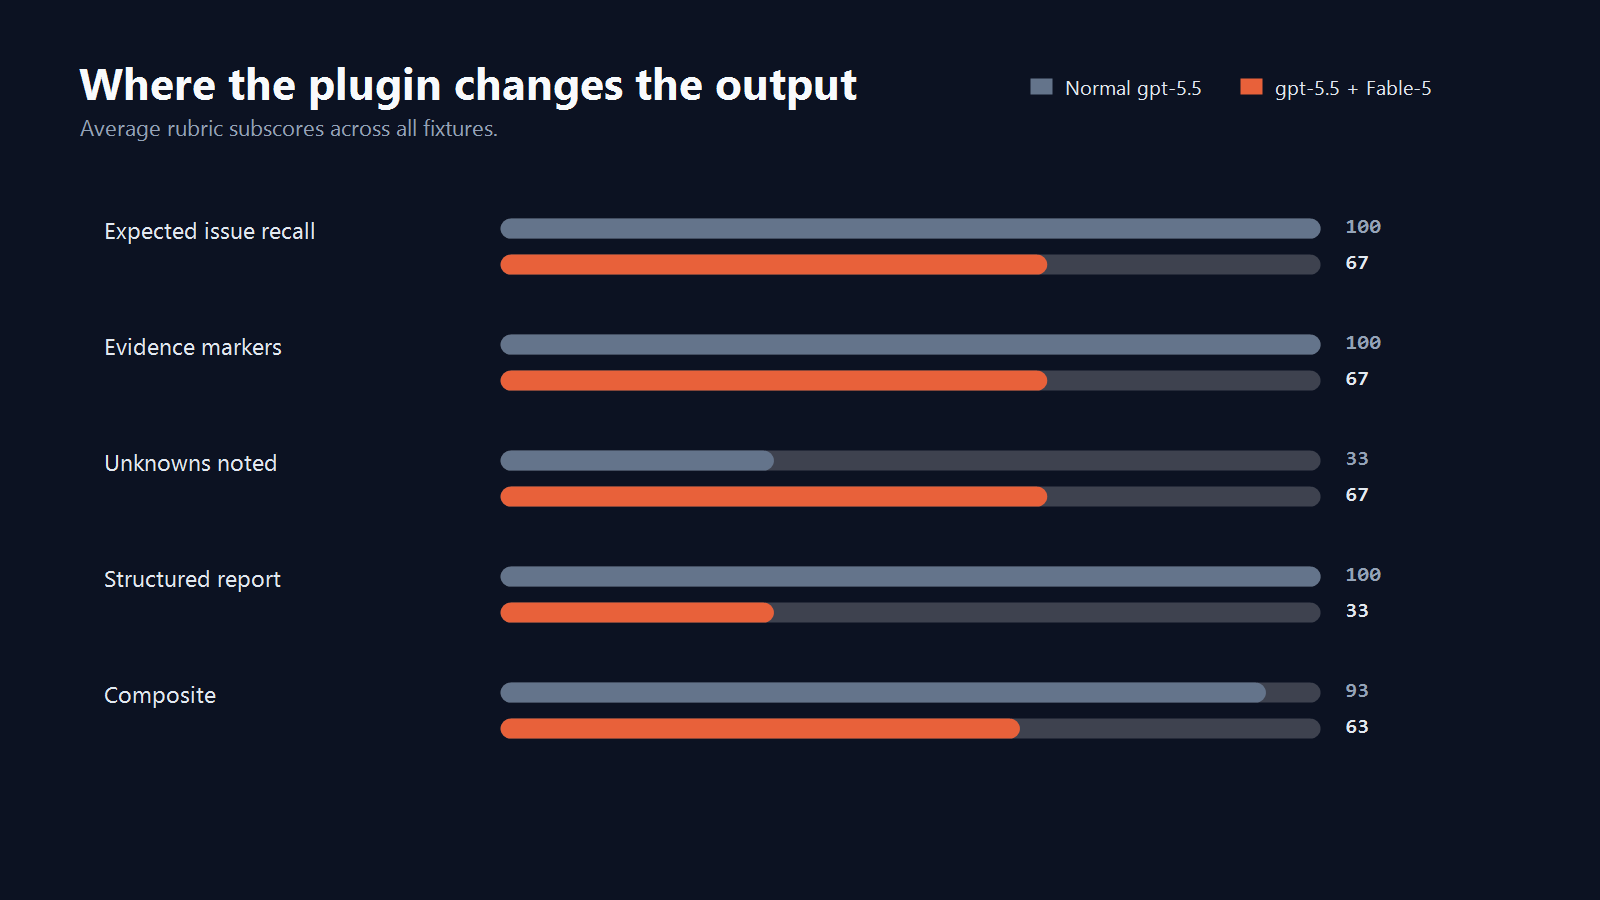
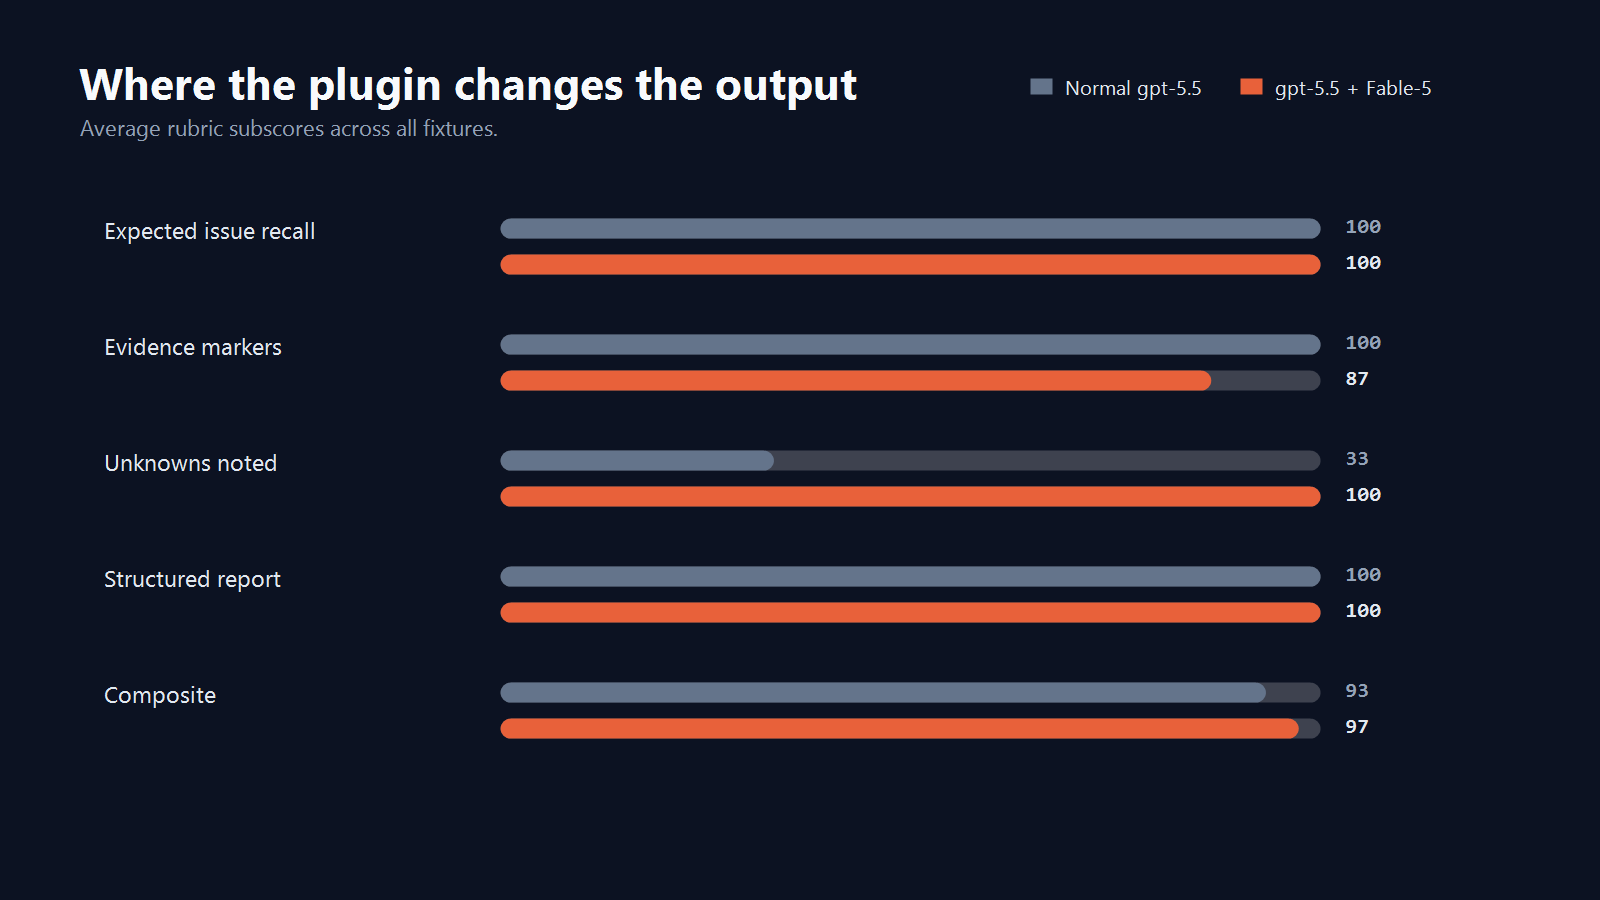
Refresh Fable benchmark results

diff --git a/benchmarks/results/20260706T030048Z/understand-toy-repo-plugin.md b/benchmarks/results/20260706T030048Z/understand-toy-repo-plugin.md
@@ -1,0 +1,40 @@
+**Direct Answer**
+
+Payment attempts are stored in a module-level in-memory array, `attempts`, and every `createPaymentAttempt(input)` call constructs a new object, pushes it, and returns it. There is no lookup by `idempotencyKey`, so retries are not actually reused. See [src/paymentAttempts.js](C:/projects/fable5-codex/tmp/benchmarks/20260706T030048Z/examples/toy-buggy-repo/src/paymentAttempts.js:1).
+
+The docs say payment attempts are idempotent and duplicate retry submissions reuse the original attempt: [README.md](C:/projects/fable5-codex/tmp/benchmarks/20260706T030048Z/examples/toy-buggy-repo/README.md:7), [docs/api.md](C:/projects/fable5-codex/tmp/benchmarks/20260706T030048Z/examples/toy-buggy-repo/docs/api.md:5). The implementation does not match that retry behavior. It does match the serialized `type: "FooPaymentAttempt"` claim: [src/paymentAttempts.js](C:/projects/fable5-codex/tmp/benchmarks/20260706T030048Z/examples/toy-buggy-repo/src/paymentAttempts.js:9), [README.md](C:/projects/fable5-codex/tmp/benchmarks/20260706T030048Z/examples/toy-buggy-repo/README.md:9).
+
+**Flow**
+
+1. `attempts` is initialized once at module scope: [src/paymentAttempts.js](C:/projects/fable5-codex/tmp/benchmarks/20260706T030048Z/examples/toy-buggy-repo/src/paymentAttempts.js:1).
+2. `createPaymentAttempt` builds a fresh record with sequential `id`, copied `invoiceId`, copied `idempotencyKey`, copied `amountCents`, and `type: "FooPaymentAttempt"`: [src/paymentAttempts.js](C:/projects/fable5-codex/tmp/benchmarks/20260706T030048Z/examples/toy-buggy-repo/src/paymentAttempts.js:3).
+3. It always appends with `attempts.push(attempt)` and returns the new object: [src/paymentAttempts.js](C:/projects/fable5-codex/tmp/benchmarks/20260706T030048Z/examples/toy-buggy-repo/src/paymentAttempts.js:12).
+4. `allPaymentAttempts()` returns a shallow copy of the array with `attempts.slice()`: [src/paymentAttempts.js](C:/projects/fable5-codex/tmp/benchmarks/20260706T030048Z/examples/toy-buggy-repo/src/paymentAttempts.js:16).
+
+I also ran a read-only duplicate retry probe with the same `idempotencyKey`; it produced `attempt_1` and `attempt_2`, `sameObject:false`, `count:2`.
+
+**Tests And Coverage**
+
+The only scoped test imports `createPaymentAttempt` and `allPaymentAttempts`: [paymentAttempts.test.js](C:/projects/fable5-codex/tmp/benchmarks/20260706T030048Z/examples/toy-buggy-repo/tests/paymentAttempts.test.js:1). Its exported helper creates one attempt and checks only that the total count is `1`: [paymentAttempts.test.js](C:/projects/fable5-codex/tmp/benchmarks/20260706T030048Z/examples/toy-buggy-repo/tests/paymentAttempts.test.js:3).
+
+Coverage notes:
+
+- Covered: single attempt insertion increments storage to one record.
+- Not covered: duplicate `idempotencyKey` retry reuse.
+- Not covered: returned object identity on retry.
+- Not covered: conflicting retry payloads with same `idempotencyKey`.
+- Not covered: `FooPaymentAttempt` type assertion, despite the docs claiming it.
+- Automation caveat: `node --test examples/toy-buggy-repo/tests/paymentAttempts.test.js` reported one passing file, but the file does not declare a `test(...)`; it exports `testCreatesAttempt`. Manually importing and calling that function passes.
+
+**Rejected Candidates**
+
+- “Retries are idempotent”: rejected. No `find`, `filter`, map, or key lookup exists; the code always pushes.
+- “Docs are entirely stale”: rejected. The `FooPaymentAttempt` serialization claim matches implementation.
+- “Attempts are persisted externally”: rejected within scope. Storage is only the module-local `attempts` array.
+- “Tests validate retry behavior”: rejected. The test performs one create and one length check only.
+
+**Unknowns**
+
+- Whether idempotency should be scoped only to `idempotencyKey` or also validate matching `invoiceId` and `amountCents`; docs only mention same `idempotencyKey`.
+- Whether this toy repo is meant to use Node’s test runner directly or a custom harness that calls exported test functions.
+- Whether module-level in-memory storage is intentional for the toy fixture or a stand-in for a real datastore.

diff --git a/benchmarks/results/20260706T030048Z/audit-payment-attempts-plugin.md b/benchmarks/results/20260706T030048Z/audit-payment-attempts-plugin.md
@@ -1,0 +1,37 @@
+**Findings**
+
+1. **High: retries are not idempotent and duplicate attempts are accepted**
+   Evidence: [paymentAttempts.js](C:/projects/fable5-codex/tmp/benchmarks/20260706T030048Z/evals/audit-fixture/src/paymentAttempts.js:3) creates a fresh attempt every call, derives `id` from `attempts.length + 1`, copies `paymentKey`, then always pushes at line 12. This contradicts the README claims in [README.md](C:/projects/fable5-codex/tmp/benchmarks/20260706T030048Z/evals/audit-fixture/README.md:7).
+   Verified behavior: two calls with the same `invoiceId` and `paymentKey` stored two records: `attempt_1` and `attempt_2`.
+   Failure scenario: a retry after a network timeout replays the same idempotency key and creates a second payment attempt, allowing downstream duplicate processing.
+   Safest next step: enforce uniqueness/idempotency on `paymentKey` or `(invoiceId, paymentKey)` and return the original attempt or reject conflicting duplicate input.
+
+2. **Medium: status values are not validated**
+   Evidence: [paymentAttempts.js](C:/projects/fable5-codex/tmp/benchmarks/20260706T030048Z/evals/audit-fixture/src/paymentAttempts.js:9) assigns `status: input.status` directly. The README claims status validation in [README.md](C:/projects/fable5-codex/tmp/benchmarks/20260706T030048Z/evals/audit-fixture/README.md:9).
+   Verified behavior: `status: "not-a-real-status"` was returned and stored unchanged.
+   Failure scenario: callers can persist impossible states, which can break retry policy, reporting, or settlement logic.
+   Safest next step: define the allowed status set and reject unknown statuses before storing.
+
+3. **Medium: tests do not cover the advertised safety claims**
+   Evidence: [paymentAttempts.test.js](C:/projects/fable5-codex/tmp/benchmarks/20260706T030048Z/evals/audit-fixture/tests/paymentAttempts.test.js:3) only creates one pending attempt and checks list length equals 1. It has no duplicate retry assertion, no conflicting retry assertion, and no invalid-status assertion.
+   Verified behavior: the exported test passes once, but calling it twice in one process fails with `expected one attempt` because module state is shared and unreset.
+   Failure scenario: the README’s three claims can remain false while the test suite still reports the happy path as passing.
+   Safest next step: add isolated tests for idempotent retry, duplicate rejection/return behavior, invalid status rejection, and test-state reset.
+
+**Rejected Candidates**
+
+- No separate persistence/migration finding: the scoped fixture has only an in-memory array and no database or migration surface.
+- No separate auth/privacy finding: no credentials, users, authorization checks, or secret-bearing inputs exist in the scoped files.
+- No separate caller-integration finding beyond tests: `rg` found only the scoped test importing this module inside `evals/audit-fixture`.
+
+**Coverage Gaps / Unknowns**
+
+- The valid status enum is not documented, so I verified only that arbitrary invalid status values are accepted.
+- There is no package manifest or runner in this benchmark directory, so validation used direct Node ES module probes.
+- I did not edit files. `git status --short evals/audit-fixture` returned no scoped changes.
+
+**Workflow Trace**
+
+Mode: `single-agent multi-lens`; no subagents used because the user requested `$fable-audit` but did not explicitly authorize subagents.
+Lenses covered: correctness, retry/idempotency, duplicate handling, status validation, tests/docs-vs-reality.
+Verification: source reads with line references, repo-wide scoped search, and direct Node probes against the module.

diff --git a/benchmarks/results/20260706T030048Z/fact-check-status-plugin.md b/benchmarks/results/20260706T030048Z/fact-check-status-plugin.md
@@ -1,0 +1,34 @@
+**Fact Check**
+
+Scope was read-only. I checked `evals/fact-check-fixture/STATUS.md` only against the two requested files plus read-only runtime probes from that source.
+
+| Claim | Verdict | Evidence |
+|---|---|---|
+| “The payment attempt library is complete.” | Unsupported / likely false | No completeness criteria exist in the scoped files. If “complete” includes the later feature claims, it is contradicted by missing idempotent retry and status validation behavior. |
+| “It supports idempotent retries.” | False | [paymentAttempts.js](C:/projects/fable5-codex/tmp/benchmarks/20260706T030048Z/evals/fact-check-fixture/src/paymentAttempts.js:3) generates IDs from `store.length + 1`, and [line 9](C:/projects/fable5-codex/tmp/benchmarks/20260706T030048Z/evals/fact-check-fixture/src/paymentAttempts.js:9) always pushes a new attempt. Probe result for duplicate input: `storeLength: 2`, IDs `attempt_1`, `attempt_2`. |
+| “It validates all payment statuses before storing them.” | False | [paymentAttempts.js](C:/projects/fable5-codex/tmp/benchmarks/20260706T030048Z/evals/fact-check-fixture/src/paymentAttempts.js:5) copies `input.status` directly, then [line 9](C:/projects/fable5-codex/tmp/benchmarks/20260706T030048Z/evals/fact-check-fixture/src/paymentAttempts.js:9) stores it. Probe with `status: "not-a-real-status"` stored and returned that value. |
+| “It has a test for duplicate retry behavior.” | False | [paymentAttempts.test.js](C:/projects/fable5-codex/tmp/benchmarks/20260706T030048Z/evals/fact-check-fixture/tests/paymentAttempts.test.js:3) defines only `testCreatesPaymentAttempt`; it calls `createPaymentAttempt` once at [line 5](C:/projects/fable5-codex/tmp/benchmarks/20260706T030048Z/evals/fact-check-fixture/tests/paymentAttempts.test.js:5). `rg "duplicate|retry|idempot|same input|again"` found no matches. |
+| “It exposes a `createPaymentAttempt` function from `src/paymentAttempts.js`.” | True | [paymentAttempts.js](C:/projects/fable5-codex/tmp/benchmarks/20260706T030048Z/evals/fact-check-fixture/src/paymentAttempts.js:1) exports `createPaymentAttempt`; [paymentAttempts.test.js](C:/projects/fable5-codex/tmp/benchmarks/20260706T030048Z/evals/fact-check-fixture/tests/paymentAttempts.test.js:1) imports it from `../src/paymentAttempts.js`. |
+
+**Rejected Candidates**
+
+- The existing test using `status: "pending"` is not evidence of validation; it only passes one status through.
+- The one stored-attempt assertion is not evidence of idempotent retry behavior; there is no second call or duplicate input scenario.
+- The exported function is evidence for API exposure, not for completeness.
+
+**Coverage Notes / Unknowns**
+
+- Covered: claim extraction from `STATUS.md`, source behavior, test coverage, and read-only probes for retry/status behavior.
+- Unknown: what “complete” means absent an external requirement/spec.
+- Highest-risk mismatch: the doc claims idempotency and status validation, but the implementation currently appends every call and accepts arbitrary status values.
+
+**Workflow Trace**
+
+- mode: `single-agent multi-lens`
+- ECF contract: declared inline, no artifact emitted
+- authorization phrase: none
+- subagent tool: not invoked; user did not authorize subagents
+- no-subagent reason: current task was small and explicitly file-scoped
+- lenses covered: doc claims, source behavior, test coverage, adversarial probes
+- local verification: line-numbered source reads, targeted `rg`, read-only Node probes
+- coverage gaps: no external spec or broader test suite checked

diff --git a/benchmarks/README.md b/benchmarks/README.md
@@ -9,14 +9,14 @@ It is a workflow benchmark, not a broad model benchmark. The fixtures are intent
 
 ## Latest Run
 
-- Run id: `20260706T004209Z`
+- Run id: `20260706T030048Z`
 - Model: `gpt-5.5`
 - Reasoning effort: `xhigh`
-- Timeout: 210 seconds per trial
+- Timeout: 240 seconds per trial
 - Command:
 
 ```powershell
-.\scripts\run-benchmarks.ps1 -Model 'gpt-5.5' -ReasoningEffort 'xhigh' -TimeoutSeconds 210
+.\scripts\run-benchmarks.ps1 -Model 'gpt-5.5' -ReasoningEffort 'xhigh' -TimeoutSeconds 240
 ```
 
 The runner copies `evals/` and `examples/` into `tmp/benchmarks/<run-id>/` before invoking nested Codex runs. That keeps benchmark execution isolated from the source tree.
@@ -43,21 +43,20 @@ Expected concept recall is regex-scored against fixed fixture-specific concepts 
 | Case | Baseline composite | Fable-5 composite | Main difference |
 |---|---:|---:|---|
 | `fact-check-status` | 90.0 | 100.0 | Fable-5 added explicit unknowns and coverage notes. |
-| `audit-payment-attempts` | 100.0 | 0.0 | Plugin trial timed out at the default 210s harness limit. |
-| `understand-toy-repo` | 90.0 | 90.0 | Both modes found the expected behavior/docs mismatch; plugin added unknowns but missed structured-report markers. |
+| `audit-payment-attempts` | 100.0 | 92.0 | Plugin completed under the 240s gate and found every expected issue, but cited fewer fixed evidence markers than baseline. |
+| `understand-toy-repo` | 90.0 | 100.0 | Both modes found the behavior/docs mismatch; Fable-5 also preserved explicit unknowns and structured-report language. |
 
-Average composite in the default harness: `93.3 -> 63.3` (`-30.0 pts`) because timeout failures score as zero. A targeted 360s rerun of `audit-payment-attempts` completed and scored 100 by the same rubric, so treat the chart as a timeout/reliability signal rather than a quality-only signal.
+Average composite in the current harness: `93.3 -> 97.3` (`+4.0 pts`). The previous `20260706T004209Z` run had one plugin timeout and scored `93.3 -> 63.3`; this run did not reproduce that timeout. Treat the improvement as a reliability-plus-discipline signal on tiny fixtures, not as a broad model-quality claim.
 
 ## Raw Outputs
 
 - `benchmarks/results/latest-summary.csv`
 - `benchmarks/results/latest-summary.json`
-- `benchmarks/results/20260706T004209Z/fact-check-status-baseline.md`
-- `benchmarks/results/20260706T004209Z/fact-check-status-plugin.md`
-- `benchmarks/results/20260706T004209Z/audit-payment-attempts-baseline.md`
-- `benchmarks/results/20260706T004209Z/audit-payment-attempts-plugin.md`
-- `benchmarks/results/20260706T004209Z/audit-payment-attempts-plugin-rerun-360.md`
-- `benchmarks/results/20260706T004209Z/understand-toy-repo-baseline.md`
-- `benchmarks/results/20260706T004209Z/understand-toy-repo-plugin.md`
+- `benchmarks/results/20260706T030048Z/fact-check-status-baseline.md`
+- `benchmarks/results/20260706T030048Z/fact-check-status-plugin.md`
+- `benchmarks/results/20260706T030048Z/audit-payment-attempts-baseline.md`
+- `benchmarks/results/20260706T030048Z/audit-payment-attempts-plugin.md`
+- `benchmarks/results/20260706T030048Z/understand-toy-repo-baseline.md`
+- `benchmarks/results/20260706T030048Z/understand-toy-repo-plugin.md`
 
 CLI logs are ignored by git because they include local runtime noise and machine paths.

diff --git a/benchmarks/results/20260706T030048Z/understand-toy-repo-baseline.md b/benchmarks/results/20260706T030048Z/understand-toy-repo-baseline.md
@@ -1,0 +1,24 @@
+I did not use any Fable-5 plugin or edit files.
+
+**Storage**
+`examples/toy-buggy-repo` stores payment attempts in process memory only. In [paymentAttempts.js](C:/projects/fable5-codex/tmp/benchmarks/20260706T030048Z/examples/toy-buggy-repo/src/paymentAttempts.js:1), `const attempts = [];` is a module-level array.
+
+`createPaymentAttempt(input)` always builds a new object with:
+
+- `id: attempt_${attempts.length + 1}` at [line 5](C:/projects/fable5-codex/tmp/benchmarks/20260706T030048Z/examples/toy-buggy-repo/src/paymentAttempts.js:5)
+- copied `invoiceId`, `idempotencyKey`, and `amountCents` at [lines 6-8](C:/projects/fable5-codex/tmp/benchmarks/20260706T030048Z/examples/toy-buggy-repo/src/paymentAttempts.js:6)
+- `type: "FooPaymentAttempt"` at [line 9](C:/projects/fable5-codex/tmp/benchmarks/20260706T030048Z/examples/toy-buggy-repo/src/paymentAttempts.js:9)
+
+It then appends the object with `attempts.push(attempt)` and returns it at [lines 12-13](C:/projects/fable5-codex/tmp/benchmarks/20260706T030048Z/examples/toy-buggy-repo/src/paymentAttempts.js:12). `allPaymentAttempts()` returns `attempts.slice()` at [line 17](C:/projects/fable5-codex/tmp/benchmarks/20260706T030048Z/examples/toy-buggy-repo/src/paymentAttempts.js:17), so callers get a copied array, but the underlying attempt objects are not cloned.
+
+**Retries**
+The intended retry behavior is documented, not implemented. The README claims “Payment attempts are idempotent” and “Duplicate retry submissions reuse the original attempt” in [README.md](C:/projects/fable5-codex/tmp/benchmarks/20260706T030048Z/examples/toy-buggy-repo/README.md:7). The API doc says retries “should reuse the existing `FooPaymentAttempt` for the same `idempotencyKey`” in [docs/api.md](C:/projects/fable5-codex/tmp/benchmarks/20260706T030048Z/examples/toy-buggy-repo/docs/api.md:5).
+
+Actual behavior: there is no lookup by `idempotencyKey`. Every call creates and pushes a new attempt. I verified the implementation read-only: two calls with the same `idempotencyKey` produced `{"sameObject":false,"count":2,"ids":["attempt_1","attempt_2"]}`.
+
+**Tests**
+The only test is [paymentAttempts.test.js](C:/projects/fable5-codex/tmp/benchmarks/20260706T030048Z/examples/toy-buggy-repo/tests/paymentAttempts.test.js:3). It calls `createPaymentAttempt` once with `idempotencyKey: "retry_1"` at [lines 4-8](C:/projects/fable5-codex/tmp/benchmarks/20260706T030048Z/examples/toy-buggy-repo/tests/paymentAttempts.test.js:4), then asserts only that `allPaymentAttempts().length !== 1` should fail at [lines 10-11](C:/projects/fable5-codex/tmp/benchmarks/20260706T030048Z/examples/toy-buggy-repo/tests/paymentAttempts.test.js:10).
+
+So the tests cover only “one create call increments storage to one record.” They do not cover retry/idempotency behavior, duplicate submissions, reuse of the original attempt, returned object identity, generated IDs, serialized fields, or `type: "FooPaymentAttempt"`.
+
+There is also no `package.json` or visible test runner in this benchmark workspace, and the test is just an exported function, so it appears to be a fixture test unless some external harness imports and invokes it.

diff --git a/benchmarks/results/20260706T030048Z/audit-payment-attempts-baseline.md b/benchmarks/results/20260706T030048Z/audit-payment-attempts-baseline.md
@@ -1,0 +1,20 @@
+Audited `evals/audit-fixture` without editing files.
+
+**Findings**
+
+1. **High: duplicate retries are not idempotent.**
+   [paymentAttempts.js](C:/projects/fable5-codex/tmp/benchmarks/20260706T030048Z/evals/audit-fixture/src/paymentAttempts.js:3) creates a new object every call and [line 12](C:/projects/fable5-codex/tmp/benchmarks/20260706T030048Z/evals/audit-fixture/src/paymentAttempts.js:12) always appends it. `paymentKey` is copied at [line 7](C:/projects/fable5-codex/tmp/benchmarks/20260706T030048Z/evals/audit-fixture/src/paymentAttempts.js:7), but never used for lookup or dedupe. A retry with the same `invoiceId` and `paymentKey` produced two stored attempts: `attempt_1` and `attempt_2`.
+
+2. **Medium: status values are not validated.**
+   The README claims “Status values are validated” at [README.md](C:/projects/fable5-codex/tmp/benchmarks/20260706T030048Z/evals/audit-fixture/README.md:9), but implementation stores `input.status` directly at [paymentAttempts.js](C:/projects/fable5-codex/tmp/benchmarks/20260706T030048Z/evals/audit-fixture/src/paymentAttempts.js:9). I confirmed `status: "not-a-status"` is accepted and persisted.
+
+3. **Medium: stored attempts are externally mutable.**
+   `createPaymentAttempt` returns the stored object reference at [line 13](C:/projects/fable5-codex/tmp/benchmarks/20260706T030048Z/evals/audit-fixture/src/paymentAttempts.js:13), and `listPaymentAttempts` returns only a shallow array copy at [line 17](C:/projects/fable5-codex/tmp/benchmarks/20260706T030048Z/evals/audit-fixture/src/paymentAttempts.js:17). A caller can mutate returned attempts and bypass any future status or amount validation unless records are cloned/frozen.
+
+**Test Risks**
+
+The only test, [paymentAttempts.test.js](C:/projects/fable5-codex/tmp/benchmarks/20260706T030048Z/evals/audit-fixture/tests/paymentAttempts.test.js:3), exports a function but does not invoke it directly. Running `node evals/audit-fixture/tests/paymentAttempts.test.js` exits successfully with zero assertions executed unless an external harness calls the export.
+
+Coverage is also too narrow: it only checks the count is `1` after one valid create at [lines 4-12](C:/projects/fable5-codex/tmp/benchmarks/20260706T030048Z/evals/audit-fixture/tests/paymentAttempts.test.js:4). There are no tests for same-key retry behavior, duplicate attempt rejection/reuse, invalid statuses, allowed status transitions, or mutation through returned/listed attempts.
+
+Remaining unknowns: the fixture has no real payment processor, persistence layer, or concurrency model, so I can confirm unsafe duplicate storage but not an actual double-charge path.

diff --git a/benchmarks/results/20260706T030048Z/fact-check-status-baseline.md b/benchmarks/results/20260706T030048Z/fact-check-status-baseline.md
@@ -1,0 +1,10 @@
+No files edited.
+
+**Supported**
+- `STATUS.md` says the module exposes `createPaymentAttempt` from `src/paymentAttempts.js` at [STATUS.md](C:/projects/fable5-codex/tmp/benchmarks/20260706T030048Z/evals/fact-check-fixture/STATUS.md:11). Supported: the file exports `createPaymentAttempt` at [paymentAttempts.js](C:/projects/fable5-codex/tmp/benchmarks/20260706T030048Z/evals/fact-check-fixture/src/paymentAttempts.js:1), and the test imports it from that path at [paymentAttempts.test.js](C:/projects/fable5-codex/tmp/benchmarks/20260706T030048Z/evals/fact-check-fixture/tests/paymentAttempts.test.js:1).
+
+**Unsupported / False**
+- “The payment attempt library is complete” at [STATUS.md](C:/projects/fable5-codex/tmp/benchmarks/20260706T030048Z/evals/fact-check-fixture/STATUS.md:3) is unsupported. The implementation is a single create function, and several stated capabilities below are missing.
+- “It supports idempotent retries” at [STATUS.md](C:/projects/fable5-codex/tmp/benchmarks/20260706T030048Z/evals/fact-check-fixture/STATUS.md:5) is false. The function always creates an ID from `store.length + 1` and always pushes a new attempt at [paymentAttempts.js](C:/projects/fable5-codex/tmp/benchmarks/20260706T030048Z/evals/fact-check-fixture/src/paymentAttempts.js:3) and [paymentAttempts.js](C:/projects/fable5-codex/tmp/benchmarks/20260706T030048Z/evals/fact-check-fixture/src/paymentAttempts.js:9). A read-only runtime check with duplicate input produced two stored attempts: `["attempt_1","attempt_2"]`.
+- “It validates all payment statuses before storing them” at [STATUS.md](C:/projects/fable5-codex/tmp/benchmarks/20260706T030048Z/evals/fact-check-fixture/STATUS.md:7) is false. `input.status` is copied directly into the attempt at [paymentAttempts.js](C:/projects/fable5-codex/tmp/benchmarks/20260706T030048Z/evals/fact-check-fixture/src/paymentAttempts.js:5) before the attempt is stored at line 9. A runtime check stored `definitely_invalid` unchanged.
+- “It has a test for duplicate retry behavior” at [STATUS.md](C:/projects/fable5-codex/tmp/benchmarks/20260706T030048Z/evals/fact-check-fixture/STATUS.md:9) is false. The only test creates one payment attempt at [paymentAttempts.test.js](C:/projects/fable5-codex/tmp/benchmarks/20260706T030048Z/evals/fact-check-fixture/tests/paymentAttempts.test.js:3) and asserts only the first ID and store length at lines 11-17. There is no duplicate call, retry scenario, or idempotency assertion.

diff --git a/README.md b/README.md
@@ -62,7 +62,7 @@ Public OSS boundary: this package includes Micro ECF-style contracts and reporti
   <img src="assets/benchmarks/fable5-benchmark-metrics.png" alt="Fable-5 benchmark metric subscores" width="920">
 </p>
 
-Latest measured run: `20260706T004209Z`, `gpt-5.5`, matched `xhigh` reasoning effort. On these intentionally tiny fixtures, normal `gpt-5.5` already found the expected issues. The plugin path improved unknown/coverage discipline on completed cases, but one audit case timed out in the default harness; rerun long-running plugin audits with a wider timeout before using the chart as a quality claim.
+Latest measured run: `20260706T030048Z`, `gpt-5.5`, matched `xhigh` reasoning effort, 240s timeout per trial. On these intentionally tiny fixtures, normal `gpt-5.5` already found the expected issues. The plugin path improved unknown/coverage discipline and completed all cases in this run, moving the average composite from `93.3` baseline to `97.3` with Fable-5. Treat the chart as a workflow/reliability signal, not a broad model-quality claim.
 
 See `benchmarks/README.md` for the command, scoring rubric, caveats, and raw outputs.
 